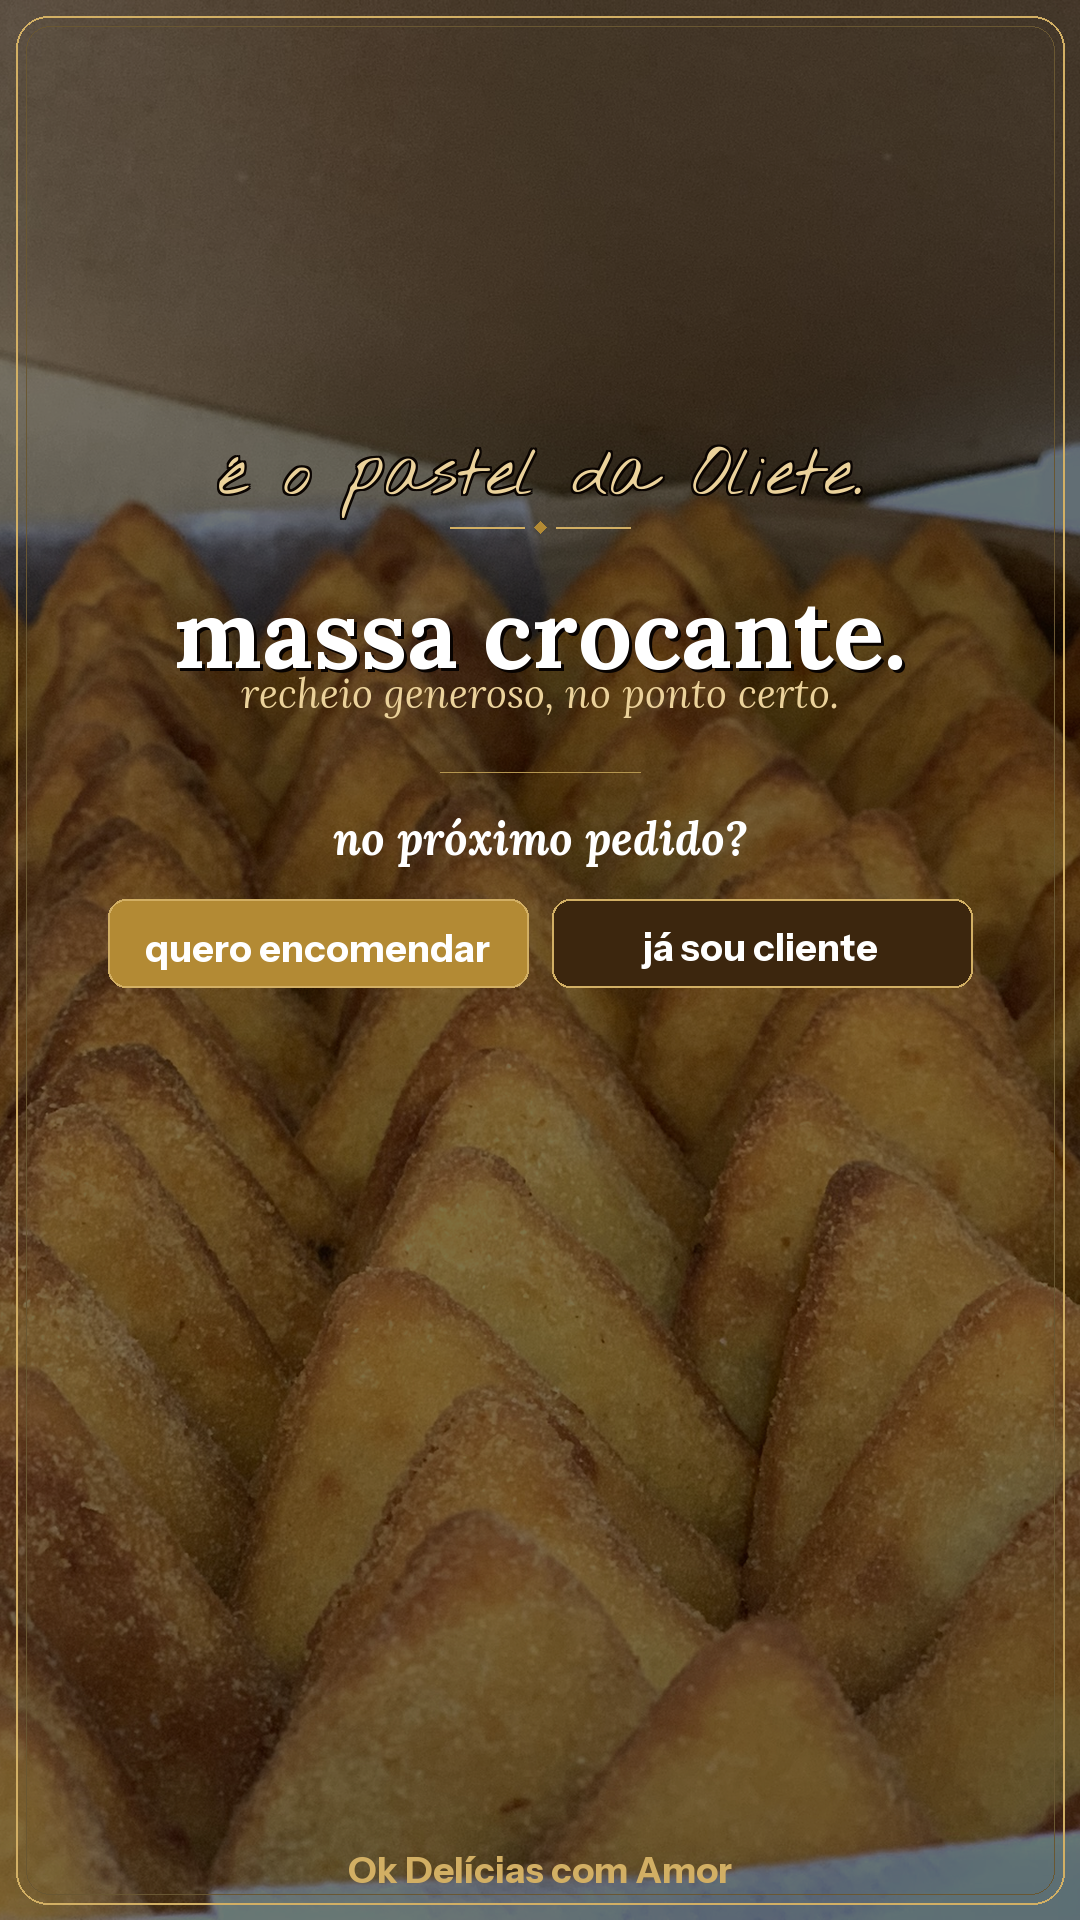
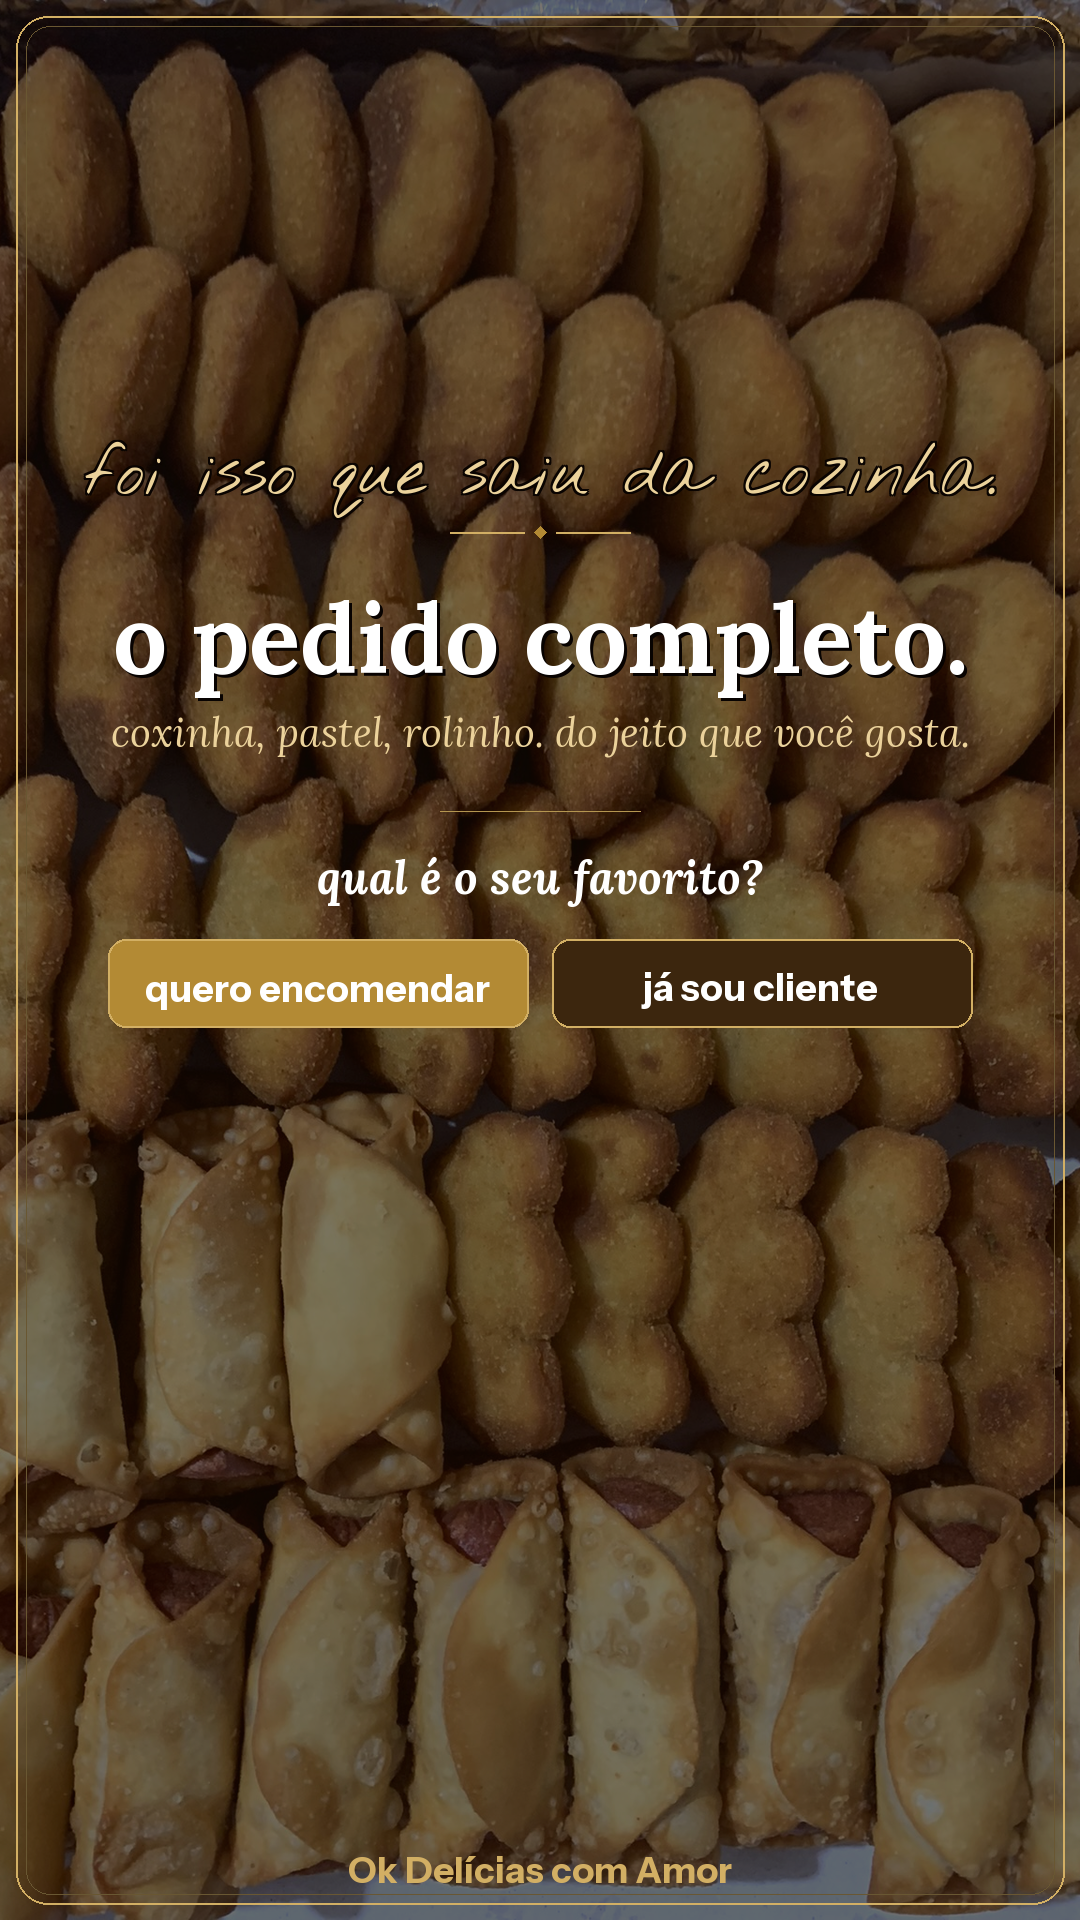
Atualiza story_maio25_2: foto IMG_1153 (bandeja mista), conceito novo "o pedido completo"

diff --git a/03 - Scripts/stories_maio25.py b/03 - Scripts/stories_maio25.py
@@ -250,8 +250,8 @@ def story_1():
 # Foto de perto, texto de desejo, enquete visual
 # ─────────────────────────────────────────────────────────────────────────────
 def story_2():
-    foto_path = os.path.join(BASE_DIR, "fotos", "IMG_1049.JPEG")
-    img  = foto_fundo(foto_path, overlay_alpha=140, overlay_color=(20, 9, 2))
+    foto_path = os.path.join(BASE_DIR, "fotos", "IMG_1153.JPEG")
+    img  = foto_fundo(foto_path, overlay_alpha=145, overlay_color=(20, 9, 2))
     draw = ImageDraw.Draw(img)
     cx   = W // 2
 
@@ -266,7 +266,7 @@ def story_2():
 
     # Script
     cy = script_outlined_wrap(
-        draw, "é o pastel da Oliete.",
+        draw, "foi isso que saiu da cozinha.",
         fnt_sc, W - 140, cx, cy,
         fill=OURO_P, ol_col=(10, 4, 1), ol=2, line_sp=4
     ) + 20
@@ -279,14 +279,14 @@ def story_2():
 
     # Título
     cy = wrap_centered(
-        draw, "massa crocante.",
+        draw, "o pedido completo.",
         fnt_tit, W - 80, cx, cy,
         fill=BRANCO, shadow=True, shd_col=(8, 3, 1), line_spacing=10
     ) + 22
 
     # Detalhe de produto
     cy = wrap_centered(
-        draw, "recheio generoso, no ponto certo.",
+        draw, "coxinha, pastel, rolinho. do jeito que você gosta.",
         fnt_det, W - 120, cx, cy,
         fill=OURO_P, line_spacing=10
     ) + 52
@@ -297,12 +297,12 @@ def story_2():
 
     # Pergunta
     cy = wrap_centered(
-        draw, "no próximo pedido?",
+        draw, "qual é o seu favorito?",
         fnt_sub, W - 120, cx, cy,
         fill=BRANCO, line_spacing=10
     ) + 32
 
-    # Poll visual — botão B com fill escuro para texto legível
+    # Poll visual
     poll_buttons(draw, cx, cy, "quero encomendar", "já sou cliente", fnt_poll)
 
     # Marca